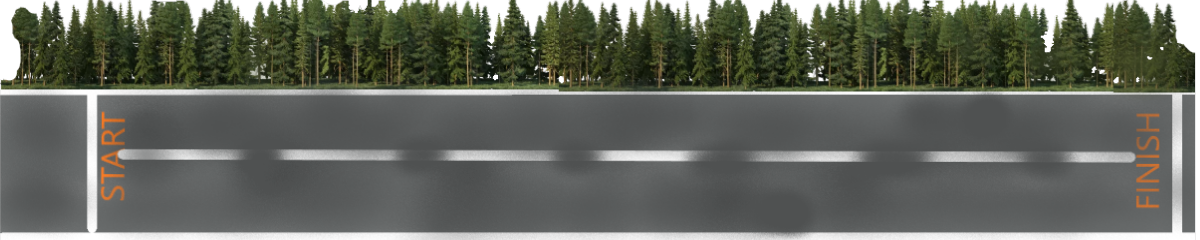
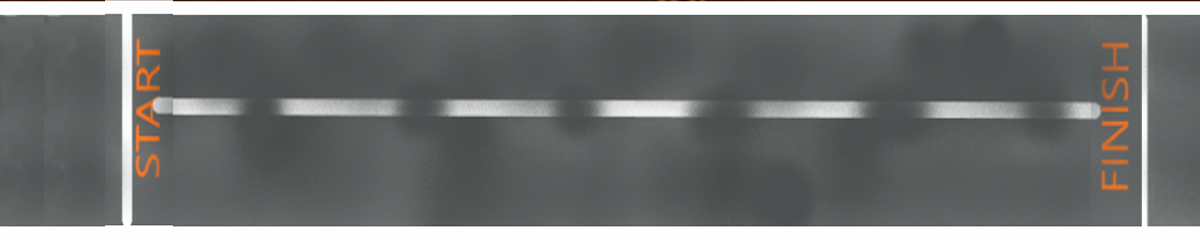
new design

diff --git a/src/script.js b/src/script.js
@@ -32,7 +32,6 @@ let stringTime = "00.00.0";
 let timeMilisec = 0;
 let timeSec = 0;
 let timeMinutes = 0;
-let timerId;
 let riders = [];
 let drowCof = 0;
 let parser = null;
@@ -143,13 +142,13 @@ const startRace = () => {
   ctx.clearRect(0, 0, canvas.width, canvas.height);
 
   distance = parseInt(inputDistance?.value) || 250;
-  drowCof = 1100 / distance;
+  drowCof = 1000 / distance;
 
   riders[0] = new Rider(
     0,
-    40,
-    100,
-    100,
+    -25,
+    150,
+    150,
     inputName1?.value,
     parseInt(inputRad1?.value),
     0,
@@ -157,9 +156,9 @@ const startRace = () => {
   );
   riders[1] = new Rider(
     0,
-    130,
-    100,
-    100,
+    80,
+    150,
+    150,
     inputName2?.value,
     parseInt(inputRad2?.value),
     0,
@@ -175,10 +174,12 @@ const startRace = () => {
   tName2.innerText = riders[1].name;
   indicator.classList.add("indicator__active");
   startPopap.classList.remove("popap__overlay_active");
+  openPopapBtn.innerText = "Stop";
 };
 
 const stopRace = () => {
   if (!isStart) {
+    openPopapBtn.innerText = "Start";
     startPopap.classList.add("popap__overlay_active");
     return;
   }
@@ -210,8 +211,8 @@ const update = () => {
   }:${timeMilisec}`;
 
   raceTime.innerText = stringTime;
-  tDist1.innerText = riders[0].distance;
-  tDist2.innerText = riders[1].distance;
+  tDist1.innerText = riders[0].distance.toFixed(2);
+  tDist2.innerText = riders[1].distance.toFixed(2);
 };
 
 winPopap.addEventListener("click", () => {
@@ -221,5 +222,4 @@ winPopap.addEventListener("click", () => {
 openPopapBtn.addEventListener("click", stopRace);
 startRaceBtn.addEventListener("click", startRace);
 btn_connect.addEventListener("click", openPort);
-
 window.addEventListener("beforeunload", closePort);

diff --git a/index.html b/index.html
@@ -17,6 +17,7 @@
             id="port_input"
             required
             placeholder="COM1"
+            value="COM4"
           />
         </div>
         <div class="btn" id="btn_connect">Подключить</div>
@@ -39,6 +40,7 @@
             type="number"
             id="distance"
             required
+            value="250"
           />
         </div>
         <div class="popap__section">
@@ -49,6 +51,7 @@
               type="text"
               id="rider_1_name"
               required
+              value="A"
             />
           </div>
           <div style="display: flex; flex-direction: column">
@@ -70,6 +73,7 @@
               type="text"
               id="rider_2_name"
               required
+              value="B"
             />
           </div>
           <div style="display: flex; flex-direction: column">
@@ -111,14 +115,12 @@
     </div>
     <header>
       <div class="race-time" id="race_time">00:00:0</div>
+      <div id="race_indicator" class="indicator"></div>
+      <div class="btn btn_start" id="btn_open_popap">Start</div>
     </header>
     <main>
-      <canvas id="canvas" width="1200" height="240"></canvas>
+      <canvas id="canvas" width="1280" height="240"></canvas>
     </main>
-    <footer>
-      <div class="btn" id="btn_open_popap">Start</div>
-      <div id="race_indicator" class="indicator"></div>
-    </footer>
     <script src="./src/script.js"></script>
   </body>
 </html>

diff --git a/assets/style.css b/assets/style.css
@@ -56,8 +56,8 @@ footer {
 }
 
 canvas {
-  position: absolute;
-  top: 420px;
+  position: fixed;
+  bottom: 0;
   background-image: url(./picture/road_1.png);
 }
 
@@ -107,12 +107,13 @@ canvas {
 }
 
 table {
+  padding: 8px;
   text-align: left;
   width: 320px;
   font-size: 20px;
   line-height: 1.2;
   letter-spacing: 0.1em;
-  color: var(--color-text-secondary);
+  color: black;
 }
 
 tr {
@@ -179,4 +180,12 @@ select {
   border-color: var(--color-primary);
   background: rgb(224, 110, 33);
   margin-bottom: 16px;
+}
+
+.btn_start {
+  position: fixed;
+  right: 8px;
+  top: 8px;
+  z-index: 444;
+  opacity: .7;
 }
